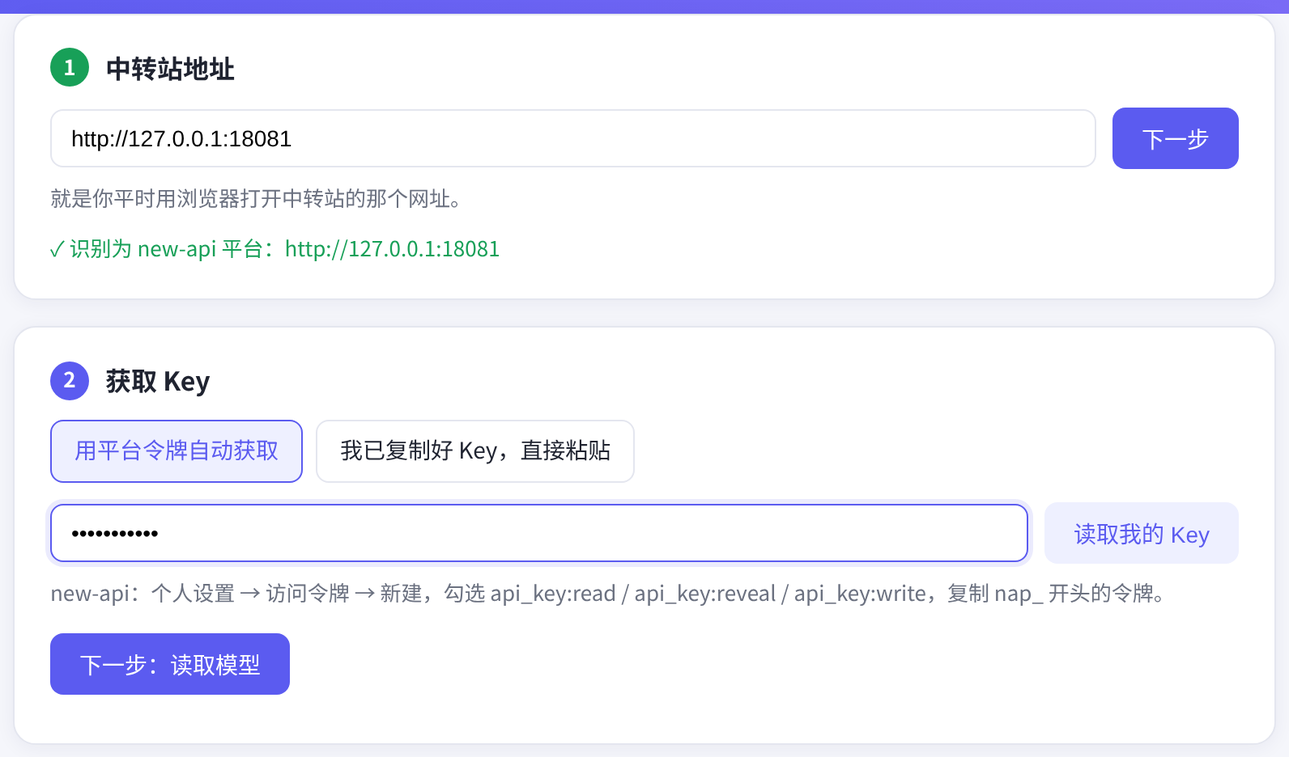
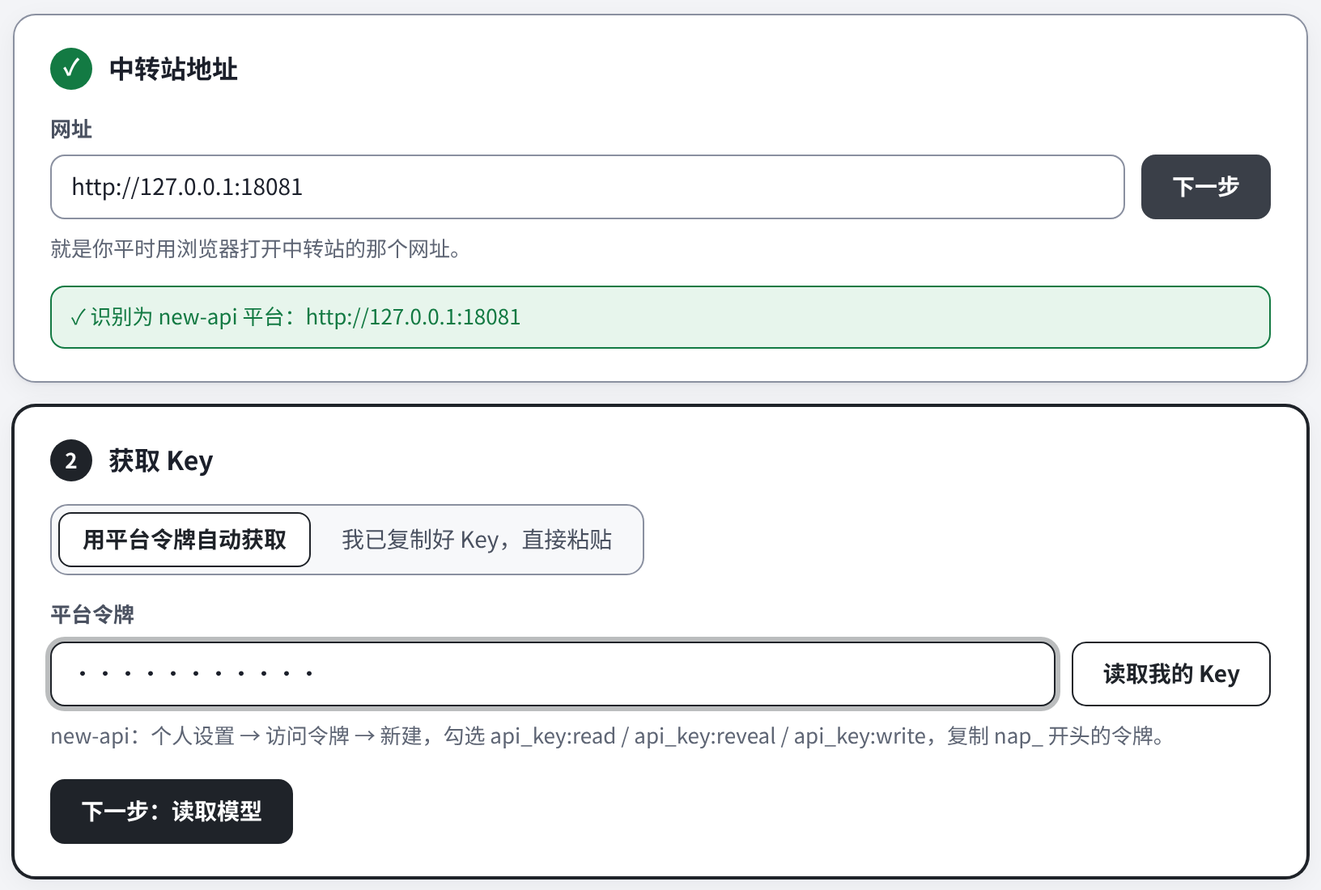
ui: 定稿中性黑灰主色 (#1F2329)，移除备选配色；重新截图

Changed region(s): [[0.0, 0.4338, 1.0, 0.9915], [0.0, 0.0, 1.0, 0.4028]]

diff --git a/workbuddy/lib/wb-page.html b/workbuddy/lib/wb-page.html
@@ -1,64 +1,138 @@
 <!doctype html>
 <html lang="zh-CN"><head><meta charset="utf-8"><meta name="viewport" content="width=device-width,initial-scale=1">
+<meta name="color-scheme" content="light dark">
 <title>WorkBuddy 中转站一键导入</title>
 <style>
-:root{--c:#5b5bf0;--c2:#7c6cf6;--bg:#f5f6fb;--card:#fff;--t:#1f2330;--m:#6b7180;--ok:#18a058;--warn:#d97706;--err:#d03050;--bd:#e4e6ef}
-*{box-sizing:border-box}body{margin:0;font-family:-apple-system,BlinkMacSystemFont,"PingFang SC","Microsoft YaHei","Noto Sans CJK SC",sans-serif;background:var(--bg);color:var(--t);font-size:14px;line-height:1.6}
-header{background:linear-gradient(120deg,var(--c),var(--c2));color:#fff;padding:22px 0 54px}
-.wrap{max-width:820px;margin:0 auto;padding:0 20px}
-header h1{margin:0;font-size:22px;font-weight:600}header p{margin:4px 0 0;opacity:.85}
-.status{float:right;background:rgba(255,255,255,.18);border-radius:20px;padding:4px 12px;font-size:12px;margin-top:4px}
-main{margin-top:-36px}
-.card{background:var(--card);border-radius:14px;box-shadow:0 2px 12px rgba(30,40,90,.06);padding:20px 22px;margin-bottom:16px;border:1px solid var(--bd)}
-.card.off{opacity:.5;pointer-events:none}
-.card h2{margin:0 0 12px;font-size:16px;display:flex;align-items:center;gap:10px}
-.n{width:24px;height:24px;border-radius:12px;background:var(--c);color:#fff;font-size:13px;display:inline-flex;align-items:center;justify-content:center}
-.card.done .n{background:var(--ok)}
+:root{--bg:#F3F4F7;--card:#FFFFFF;--sunk:#F7F8FA;--t:#1B1F2A;--t2:#4A5160;--m:#5E6574;--bd:#8A90A0;--bd-soft:#DDE0E7;
+ --c:#1F2329;--c-h:#3A3F48;--c-soft:#ECEEF2;--c-on:#FFFFFF;--ring:rgba(31,35,41,.3);
+ --ok:#137A43;--ok-bg:#E7F5EC;--warn:#9A5800;--warn-bg:#FDF2E1;--err:#B3203E;--err-bg:#FCEBEE;--shadow:0 1px 2px rgba(20,25,40,.05),0 4px 16px rgba(20,25,40,.05)}
+@media (prefers-color-scheme:dark){:root{--bg:#14161C;--card:#1F222B;--sunk:#191B22;--t:#ECEEF3;--t2:#C3C7D1;--m:#A3A9B6;--bd:#6E7484;--bd-soft:#343844;
+ --c:#E6E8EC;--c-h:#FFFFFF;--c-soft:#2C2F38;--c-on:#14161C;--ring:rgba(230,232,236,.4);
+ --ok:#5BD08F;--ok-bg:#183326;--warn:#F0B055;--warn-bg:#3A2C14;--err:#FF8A9E;--err-bg:#3D1C24;--shadow:0 1px 2px rgba(0,0,0,.4)}}
+
+*{box-sizing:border-box}
+body{margin:0;font-family:-apple-system,BlinkMacSystemFont,"PingFang SC","Hiragino Sans GB","Microsoft YaHei","Noto Sans CJK SC","Segoe UI",sans-serif;background:var(--bg);color:var(--t);font-size:14px;line-height:1.6;-webkit-font-smoothing:antialiased}
+.wrap{max-width:840px;margin:0 auto;padding:0 20px}
+a{color:var(--c)}
+header{padding:28px 0 8px}
+.top{display:flex;align-items:flex-start;justify-content:space-between;gap:8px 16px;flex-wrap:wrap}.top>div{flex:1 1 380px}
+header h1{margin:0;font-size:22px;font-weight:650;letter-spacing:.01em}
+header p{margin:4px 0 0;color:var(--m)}
+.status{flex:none;min-width:168px;justify-content:center;display:inline-flex;align-items:center;gap:6px;border:1px solid var(--bd);background:var(--card);border-radius:999px;padding:3px 12px;font-size:12px;color:var(--t2);white-space:nowrap}
+.status::before{content:"";width:8px;height:8px;border-radius:50%;background:var(--m)}
+.status.ok::before{background:var(--ok)}.status.warn::before{background:var(--warn)}
+/* 步骤条 */
+.steps{display:flex;list-style:none;margin:20px 0 18px;padding:0;gap:6px}
+.steps li{flex:1;display:flex;align-items:center;gap:8px;padding:8px 10px;border-radius:10px;color:var(--m);font-size:13px;border:1px solid transparent}
+.steps .d{flex:none;width:22px;height:22px;border-radius:50%;border:1.5px solid var(--bd);display:inline-flex;align-items:center;justify-content:center;font-size:12px;font-weight:600;background:var(--card)}
+.steps li.cur{background:var(--card);border-color:var(--c);color:var(--t);font-weight:600}
+.steps li.cur .d{background:var(--c);border-color:var(--c);color:var(--c-on)}
+.steps li.done{color:var(--t2)}.steps li.done .d{background:var(--ok);border-color:var(--ok);color:var(--card);font-size:0}
+.steps li.done .d::after{content:"✓";font-size:12px}
+/* 卡片 */
+.card{background:var(--card);border-radius:14px;box-shadow:var(--shadow);padding:20px 22px;margin-bottom:14px;border:1px solid var(--bd)}
+.card.cur{border-color:var(--c);box-shadow:0 0 0 1px var(--c),var(--shadow)}
+.card.off{background:var(--sunk);box-shadow:none;pointer-events:none}
+.card.off>*:not(h2){display:none}
+.card.off h2{margin:0;color:var(--m)}
+.card.off h2::after{content:"完成上一步后可填写";margin-left:auto;font-size:12px;font-weight:400;color:var(--m)}
+.card h2{margin:0 0 14px;font-size:16px;font-weight:650;display:flex;align-items:center;gap:10px}
+.n{flex:none;width:26px;height:26px;border-radius:50%;background:var(--c);color:var(--c-on);font-size:13px;display:inline-flex;align-items:center;justify-content:center}
+.card.off .n{background:transparent;color:var(--m);border:1.5px solid var(--bd)}
+.card.done .n{background:var(--ok);color:var(--card);font-size:0}.card.done .n::after{content:"✓";font-size:14px}
+.card.done:not(.cur){border-color:var(--bd)}
+.lbl{display:block;font-size:13px;font-weight:600;color:var(--t2);margin:0 0 6px}
 .row{display:flex;gap:10px;align-items:center;flex-wrap:wrap}
-input[type=text],input[type=password],select{border:1px solid var(--bd);border-radius:8px;padding:9px 12px;font-size:14px;outline:none;background:#fff}
-input[type=text]:focus,input[type=password]:focus,select:focus{border-color:var(--c);box-shadow:0 0 0 3px rgba(91,91,240,.12)}
+input[type=text],input[type=password],select{height:40px;border:1px solid var(--bd);border-radius:9px;padding:0 12px;font-size:14px;color:var(--t);background:var(--card);font-family:inherit}
+select{height:34px;padding:0 8px;cursor:pointer}
+input::placeholder{color:var(--m)}
+input:focus-visible,select:focus-visible,button:focus-visible,.tab:focus-visible{outline:none;border-color:var(--c);box-shadow:0 0 0 3px var(--ring)}
 input.grow{flex:1;min-width:240px}
-button{border:0;border-radius:8px;padding:9px 18px;font-size:14px;cursor:pointer;background:var(--c);color:#fff}
-button.sec{background:#eef0ff;color:var(--c)}button.ghost{background:none;color:var(--c);padding:4px 8px}
-button:disabled{opacity:.5;cursor:default}
+input[type=checkbox],input[type=radio]{width:16px;height:16px;accent-color:var(--c);margin:0;cursor:pointer}
+button{height:40px;border:1px solid var(--c);border-radius:9px;padding:0 18px;font-size:14px;font-weight:600;cursor:pointer;background:var(--c);color:var(--c-on);font-family:inherit;display:inline-flex;align-items:center;justify-content:center}
+button:hover:not(:disabled){background:var(--c-h);border-color:var(--c-h)}
+button.sec{background:var(--card);color:var(--c);border-color:var(--c)}
+button.sec:hover:not(:disabled){background:var(--c-soft);border-color:var(--c)}
+button.ghost{height:30px;background:none;border-color:transparent;color:var(--c);padding:0 8px;font-weight:500}
+button.ghost:hover:not(:disabled){background:var(--c-soft);border-color:transparent}
+button:disabled{opacity:.6;cursor:progress}
 .hint{color:var(--m);font-size:13px;margin:8px 0 0}
-.msg{margin-top:10px;font-size:13px}.msg.ok{color:var(--ok)}.msg.warn{color:var(--warn)}.msg.err{color:var(--err)}
-.tabs{display:flex;gap:8px;margin-bottom:12px}
-.tab{padding:7px 14px;border-radius:8px;border:1px solid var(--bd);cursor:pointer;background:#fff;color:var(--t)}
-.tab.on{border-color:var(--c);background:#eef0ff;color:var(--c)}
-.keys label{display:flex;gap:10px;align-items:center;padding:8px 10px;border:1px solid var(--bd);border-radius:8px;margin-top:6px;cursor:pointer}
-.keys label:hover{border-color:var(--c)}.keys .mk{color:var(--m);font-family:ui-monospace,Menlo,Consolas,monospace;font-size:12px}
-table{width:100%;border-collapse:collapse;margin-top:8px}th,td{text-align:left;padding:8px 6px;border-bottom:1px solid var(--bd)}th{color:var(--m);font-weight:500;font-size:13px}
-td.id{font-family:ui-monospace,Menlo,Consolas,monospace;font-size:13px}
-.tag{display:inline-block;border-radius:10px;padding:0 8px;font-size:12px}.tag.ok{background:#e8f7ef;color:var(--ok)}.tag.warn{background:#fff4e5;color:var(--warn)}.tag.err{background:#fdecef;color:var(--err)}
-.spin{display:inline-block;width:14px;height:14px;border:2px solid #fff;border-right-color:transparent;border-radius:50%;animation:s .8s linear infinite;vertical-align:-2px;margin-right:6px}
+.msg{margin-top:12px;font-size:13px;border-radius:9px}
+.msg:empty{display:none}
+.msg.ok,.msg.warn,.msg.err{padding:8px 12px;border:1px solid currentColor}
+.msg.ok{color:var(--ok);background:var(--ok-bg)}.msg.warn{color:var(--warn);background:var(--warn-bg)}.msg.err{color:var(--err);background:var(--err-bg)}
+.msg.err::before{content:"⚠ ";font-weight:700}
+/* 分段切换 */
+.tabs{display:inline-flex;gap:4px;padding:4px;margin-bottom:14px;border:1px solid var(--bd);border-radius:11px;background:var(--sunk);flex-wrap:wrap}
+.tab{height:auto;padding:6px 14px;border-radius:8px;border:1px solid transparent;cursor:pointer;background:none;color:var(--t2);font-weight:500}
+.tab:hover:not(.on){background:var(--card);border-color:transparent;color:var(--t)}
+.tab.on,.tab.on:hover{background:var(--card);border-color:var(--c);color:var(--c);font-weight:600}
+/* Key 列表 */
+.keys{margin-top:4px}
+.keys:empty{display:none}
+.keys label{display:flex;gap:12px;align-items:center;padding:10px 12px;border:1px solid var(--bd);border-radius:10px;margin-top:8px;cursor:pointer;background:var(--card)}
+.keys label:hover{border-color:var(--c)}
+.keys label:has(input:checked){border-color:var(--c);background:var(--c-soft);box-shadow:0 0 0 1px var(--c)}
+.keys b{font-weight:600}.keys .mk{margin-left:auto;color:var(--m);font-family:ui-monospace,Menlo,Consolas,monospace;font-size:12px}
+.keys .new b{color:var(--c)}
+.empty{padding:14px;border:1px dashed var(--bd);border-radius:10px;color:var(--m);text-align:center;font-size:13px;margin-top:8px}
+/* 骨架加载 */
+.sk{height:42px;border-radius:10px;margin-top:8px;background:linear-gradient(90deg,var(--sunk),var(--bd-soft),var(--sunk));background-size:200% 100%;animation:sh 1.2s ease-in-out infinite}
+@keyframes sh{to{background-position:-200% 0}}
+/* 表格 */
+.tools{padding:8px 10px;border:1px solid var(--bd);border-bottom:0;border-radius:10px 10px 0 0;background:var(--sunk)}
+.cnt{font-size:13px;color:var(--t2);margin-left:4px}
+.tbl{border:1px solid var(--bd);border-radius:0 0 10px 10px;overflow:hidden}
+.tbl.solo{border-radius:10px}
+table{width:100%;border-collapse:collapse}
+th,td{text-align:left;padding:8px 12px;border-bottom:1px solid var(--bd-soft);vertical-align:middle}
+tbody tr:last-child td{border-bottom:0}
+th{color:var(--t2);font-weight:600;font-size:12px;background:var(--sunk);border-bottom:1px solid var(--bd)}
+#mt tr:hover td{background:var(--sunk)}
+#mt tr:has(input:checked) td{background:var(--c-soft)}
+td.id{font-family:ui-monospace,Menlo,Consolas,monospace;font-size:13px;overflow-wrap:anywhere;min-width:150px}
+#res th,#res td:nth-child(2),#res td:nth-child(3){white-space:nowrap}
+button.fin,button.fin:disabled{opacity:1;cursor:default;background:var(--ok-bg);color:var(--ok);border-color:var(--ok)}
+td.note{color:var(--m);font-size:13px}
+.tag{display:inline-block;border-radius:999px;padding:1px 10px;font-size:12px;font-weight:600;border:1px solid currentColor;white-space:nowrap}
+.tag.ok{background:var(--ok-bg);color:var(--ok)}.tag.warn{background:var(--warn-bg);color:var(--warn)}.tag.err{background:var(--err-bg);color:var(--err)}
+.spin{display:inline-block;width:14px;height:14px;border:2px solid currentColor;border-right-color:transparent;border-radius:50%;animation:s .8s linear infinite;margin-right:8px}
 @keyframes s{to{transform:rotate(360deg)}}
-.big{font-size:16px;padding:11px 26px}
-.final{text-align:center;padding:10px 0 4px}.final .ok{font-size:18px;color:var(--ok);font-weight:600}
-footer{color:var(--m);font-size:12px;text-align:center;padding:10px 0 30px}
+.big{height:46px;font-size:15px;padding:0 28px}
+.prog{margin-top:14px;padding:12px 14px;border-radius:10px;background:var(--sunk);border:1px solid var(--bd);color:var(--t2);font-size:13px}
+#res .tbl{margin-top:14px}
+.final{margin-top:16px;padding:18px;border-radius:12px;border:1px solid var(--ok);background:var(--ok-bg);text-align:center}
+.final .ok{margin:0;font-size:18px;color:var(--ok);font-weight:700}
+.final .hint{color:var(--t2);margin:6px 0 14px}
+footer{color:var(--m);font-size:12px;text-align:center;padding:12px 0 32px}
+.bye{padding:80px 20px;text-align:center}
+@media (max-width:640px){.steps li span.tx{display:none}.steps li{justify-content:center}.mk{display:none}}
+@media (prefers-reduced-motion:reduce){*{animation:none!important;transition:none!important}}
 </style></head><body>
-<header><div class="wrap"><span class="status" id="st">检测中…</span><h1>WorkBuddy 中转站一键导入</h1><p>把 new-api / sub2api 中转站的模型导入 WorkBuddy，每个模型可选思考强度</p></div></header>
+<header><div class="wrap"><div class="top"><div><h1>WorkBuddy 中转站一键导入</h1><p>把 new-api / sub2api 中转站的模型导入 WorkBuddy，每个模型可单独选思考强度</p></div><span class="status" id="st" role="status">检测中…</span></div>
+<ol class="steps" id="steps" aria-label="进度"><li class="cur"><span class="d">1</span><span class="tx">填地址</span></li><li><span class="d">2</span><span class="tx">获取 Key</span></li><li><span class="d">3</span><span class="tx">选模型</span></li><li><span class="d">4</span><span class="tx">导入</span></li></ol></div></header>
 <main class="wrap">
-<section class="card" id="c1"><h2><span class="n">1</span>中转站地址</h2>
+<section class="card cur" id="c1"><h2><span class="n">1</span>中转站地址</h2>
+  <label class="lbl" for="site">网址</label>
   <div class="row"><input class="grow" type="text" id="site" placeholder="例如 https://api.example.com" autocomplete="off"><button id="b1">下一步</button></div>
-  <p class="hint">就是你平时用浏览器打开中转站的那个网址。</p><div class="msg" id="m1"></div></section>
+  <p class="hint">就是你平时用浏览器打开中转站的那个网址。</p><div class="msg" id="m1" role="status"></div></section>
 
 <section class="card off" id="c2"><h2><span class="n">2</span>获取 Key</h2>
-  <div class="tabs"><span class="tab on" data-t="pat" id="tPat">用平台令牌自动获取</span><span class="tab" data-t="paste" id="tPaste">我已复制好 Key，直接粘贴</span></div>
-  <div id="pPat"><div class="row"><input class="grow" type="password" id="pat" placeholder="平台令牌" autocomplete="off"><button class="sec" id="bKeys">读取我的 Key</button></div>
+  <div class="tabs" role="tablist"><button type="button" class="tab on" data-t="pat" id="tPat" role="tab" aria-selected="true">用平台令牌自动获取</button><button type="button" class="tab" data-t="paste" id="tPaste" role="tab" aria-selected="false">我已复制好 Key，直接粘贴</button></div>
+  <div id="pPat"><label class="lbl" for="pat">平台令牌</label><div class="row"><input class="grow" type="password" id="pat" placeholder="粘贴平台令牌（不会保存到磁盘）" autocomplete="off"><button class="sec" id="bKeys">读取我的 Key</button></div>
     <p class="hint" id="patHint"></p><div class="keys" id="keys"></div></div>
-  <div id="pPaste" hidden><div class="row"><input class="grow" type="password" id="key" placeholder="sk-…" autocomplete="off"></div>
+  <div id="pPaste" hidden><label class="lbl" for="key">Key</label><div class="row"><input class="grow" type="password" id="key" placeholder="sk-…" autocomplete="off"></div>
     <p class="hint">在中转站网页的「令牌 / API 密钥」页点复制，粘贴到这里。</p></div>
-  <div class="row" style="margin-top:14px"><button id="b2">下一步：读取模型</button></div><div class="msg" id="m2"></div></section>
+  <div class="row" style="margin-top:16px"><button id="b2">下一步：读取模型</button></div><div class="msg" id="m2" role="status"></div></section>
 
 <section class="card off" id="c3"><h2><span class="n">3</span>选择模型和思考强度</h2>
-  <div class="row"><button class="ghost" id="all">全选</button><button class="ghost" id="none">全不选</button>
-    <span style="flex:1"></span><span class="hint" style="margin:0">把勾选的都设为</span><select id="bulk"><option value="">—</option></select></div>
-  <table><thead><tr><th style="width:36px"></th><th>模型</th><th style="width:130px">思考强度</th></tr></thead><tbody id="mt"></tbody></table>
+  <div class="row tools"><button class="ghost" id="all">全选</button><button class="ghost" id="none">全不选</button><span class="cnt" id="cnt"></span>
+    <span style="flex:1"></span><label class="hint" for="bulk" style="margin:0">把勾选的都设为</label><select id="bulk"><option value="">—</option></select></div>
+  <div class="tbl"><table><thead><tr><th style="width:44px"><span hidden>勾选</span></th><th>模型</th><th style="width:140px">思考强度</th></tr></thead><tbody id="mt"></tbody></table></div>
   <p class="hint">导入前会逐个试一下：模型不可用就不导入；选了思考强度但中转站不支持的，会自动改成「关闭」并在结果里说明。导入后在 WorkBuddy 里也能随时切换思考强度。</p></section>
 
 <section class="card off" id="c4"><h2><span class="n">4</span>导入</h2>
-  <div class="row"><button class="big" id="b4">导入到 WorkBuddy</button><span class="hint" id="m4" style="margin:0"></span></div>
+  <div class="row"><button class="big" id="b4">导入到 WorkBuddy</button><span class="hint" id="m4" style="margin:0" role="status"></span></div>
   <div id="res"></div></section>
 <footer>v__WB_VERSION__ · 本页面只在你的电脑上运行（127.0.0.1），令牌和 Key 不会保存到磁盘 · <a href="https://github.com/xtianowner/workbuddy-relay" target="_blank" rel="noopener">开源项目</a></footer>
 </main>
@@ -68,38 +142,40 @@ const LBL={off:'关闭',low:'低',medium:'中',high:'高'};
 async function api(p,b){const r=await fetch(p,{method:b?'POST':'GET',headers:{'X-WB-Token':T,'Content-Type':'application/json'},body:b?JSON.stringify(b):undefined});const j=await r.json().catch(()=>({error:'本地服务已关闭'}));if(!r.ok)throw new Error(j.error||('HTTP '+r.status));return j}
 function msg(id,t,c){const e=$(id);e.className='msg '+(c||'');e.textContent=t||''}
 function busy(btn,on,txt){if(on){btn.dataset.t=btn.textContent;btn.innerHTML='<span class="spin"></span>'+(txt||'处理中…');btn.disabled=true}else{btn.textContent=btn.dataset.t||btn.textContent;btn.disabled=false}}
-function open(n){for(let i=1;i<=4;i++){$('c'+i).classList.toggle('off',i>n);$('c'+i).classList.toggle('done',i<n)}}
-api('/api/status').then(s=>{EFF=s.efforts;$('st').textContent=s.app.installed?('WorkBuddy 已安装'+(s.app.running?' · 运行中':'')):'未检测到 WorkBuddy';EFF.forEach(e=>$('bulk').insertAdjacentHTML('beforeend','<option value="'+e.v+'">'+e.label+'</option>'))}).catch(e=>$('st').textContent=e.message);
+function open(n){for(let i=1;i<=4;i++){const c=$('c'+i);c.classList.toggle('off',i>n);c.classList.toggle('done',i<n);c.classList.toggle('cur',i===Math.min(n,4)&&n<5)}
+  $('steps').querySelectorAll('li').forEach((li,i)=>{li.classList.toggle('done',i+1<n);li.classList.toggle('cur',i+1===n);li.toggleAttribute('aria-current',i+1===n)})}
+function cnt(){const k=models.filter(m=>m.checked).length;$('cnt').textContent='已选 '+k+' / '+models.length}
+api('/api/status').then(s=>{EFF=s.efforts;$('st').textContent=s.app.installed?('WorkBuddy 已安装'+(s.app.running?' · 运行中':'')):'未检测到 WorkBuddy';$('st').className='status '+(s.app.installed?'ok':'warn');EFF.forEach(e=>$('bulk').insertAdjacentHTML('beforeend','<option value="'+e.v+'">'+e.label+'</option>'))}).catch(e=>{$('st').textContent=e.message;$('st').className='status warn'});
 $('b1').onclick=async()=>{const b=$('b1');busy(b,1,'识别中…');msg('m1');try{const r=await api('/api/site',{site:$('site').value.trim()});
   const n={newapi:'new-api',sub2api:'sub2api'}[r.type];msg('m1',(n?'✓ 识别为 '+n+' 平台：':'未能识别平台类型，可以直接粘贴 Key：')+r.origin+(r.insecure?'（注意：http 明文传输）':''),n?'ok':'warn');
   $('patHint').textContent=r.type==='sub2api'?'sub2api 获取令牌较麻烦，推荐切到「直接粘贴 Key」。':'new-api：个人设置 → 访问令牌 → 新建，勾选 api_key:read / api_key:reveal / api_key:write，复制 nap_ 开头的令牌。';
   if(r.type==='sub2api'||r.type==='unknown')setTab('paste');open(2);$('keys').innerHTML='';keyChoice=null}catch(e){msg('m1',e.message,'err')}busy(b,0)};
 $('site').onkeydown=e=>{if(e.key==='Enter')$('b1').click()};
-function setTab(t){mode=t;$('tPat').classList.toggle('on',t==='pat');$('tPaste').classList.toggle('on',t==='paste');$('pPat').hidden=t!=='pat';$('pPaste').hidden=t!=='paste';msg('m2')}
+function setTab(t){mode=t;$('tPat').classList.toggle('on',t==='pat');$('tPaste').classList.toggle('on',t==='paste');$('tPat').setAttribute('aria-selected',t==='pat');$('tPaste').setAttribute('aria-selected',t==='paste');$('pPat').hidden=t!=='pat';$('pPaste').hidden=t!=='paste';msg('m2')}
 $('tPat').onclick=()=>setTab('pat');$('tPaste').onclick=()=>setTab('paste');
-$('bKeys').onclick=async()=>{const b=$('bKeys');busy(b,1,'读取中…');msg('m2');try{const r=await api('/api/keys',{token:$('pat').value.trim()});
-  const h=r.keys.map((k,i)=>'<label><input type="radio" name="k" value="'+i+'"'+(i===0?' checked':'')+'><b></b><span class="mk"></span></label>').join('')+'<label><input type="radio" name="k" value="new"'+(r.keys.length?'':' checked')+'><b>新建一个 WorkBuddy 专用 Key</b></label>';
+$('bKeys').onclick=async()=>{const b=$('bKeys');busy(b,1,'读取中…');msg('m2');$('keys').innerHTML='<div class="sk"></div><div class="sk"></div>';try{const r=await api('/api/keys',{token:$('pat').value.trim()});
+  const h=r.keys.map((k,i)=>'<label><input type="radio" name="k" value="'+i+'"'+(i===0?' checked':'')+'><b></b><span class="mk"></span></label>').join('')+(r.keys.length?'':'<div class="empty">这个账号下还没有可用的 Key，可以新建一个</div>')+'<label class="new"><input type="radio" name="k" value="new"'+(r.keys.length?'':' checked')+'><b>新建一个 WorkBuddy 专用 Key</b></label>';
   $('keys').innerHTML=h;const ls=$('keys').querySelectorAll('label');r.keys.forEach((k,i)=>{ls[i].querySelector('b').textContent=k.name;ls[i].querySelector('.mk').textContent=k.masked});
-  window._keys=r.keys;msg('m2','✓ 读取到 '+r.keys.length+' 个可用 Key，请选择一个','ok')}catch(e){msg('m2','读取失败：'+e.message+'。也可以切到「直接粘贴 Key」','err')}busy(b,0)};
+  window._keys=r.keys;msg('m2','✓ 读取到 '+r.keys.length+' 个可用 Key，请选择一个','ok')}catch(e){msg('m2','读取失败：'+e.message+'。也可以切到「直接粘贴 Key」','err');$('keys').innerHTML=''}busy(b,0)};
 $('b2').onclick=async()=>{const b=$('b2');let body;
   if(mode==='paste'){const k=$('key').value.trim();if(!k)return msg('m2','请粘贴 Key','err');body={key:k}}
   else{const c=document.querySelector('input[name=k]:checked');if(!c)return msg('m2','请先读取并选择一个 Key','err');body={keyId:c.value==='new'?'new':window._keys[+c.value].id}}
-  busy(b,1,'读取模型中…');msg('m2');try{const r=await api('/api/use-key',body);msg('m2','✓ 使用 Key「'+r.keyName+'」'+r.masked+'，找到 '+r.models.length+' 个模型','ok');models=r.models;renderModels();open(3);$('c4').classList.remove('off')}catch(e){msg('m2',e.message,'err')}busy(b,0)};
-function renderModels(){const tb=$('mt');tb.innerHTML='';models.forEach((m,i)=>{const tr=document.createElement('tr');
+  busy(b,1,'读取模型中…');msg('m2','正在向中转站读取模型列表…');try{const r=await api('/api/use-key',body);msg('m2','✓ 使用 Key「'+r.keyName+'」'+r.masked+'，找到 '+r.models.length+' 个模型','ok');models=r.models;renderModels();open(3);$('c4').classList.remove('off');$('c3').scrollIntoView({block:'start',behavior:'smooth'})}catch(e){msg('m2',e.message,'err')}busy(b,0)};
+function renderModels(){const tb=$('mt');tb.innerHTML='';cnt();if(!models.length){tb.innerHTML='<tr><td colspan="3"><div class="empty">这个 Key 下没有读到模型。请到中转站确认这个 Key 有可用的模型分组，再回到第 2 步重试。</div></td></tr>';return}models.forEach((m,i)=>{const tr=document.createElement('tr');
   tr.innerHTML='<td><input type="checkbox"'+(m.checked?' checked':'')+'></td><td class="id"></td><td><select></select></td>';tr.children[1].textContent=m.id;
   const sel=tr.querySelector('select');EFF.forEach(e=>{const o=document.createElement('option');o.value=e.v;o.textContent=e.label;if(e.v===m.suggest)o.selected=true;sel.appendChild(o)});
-  tr.querySelector('input').onchange=e=>m.checked=e.target.checked;sel.onchange=e=>m.suggest=e.target.value;tb.appendChild(tr)})}
+  const cb=tr.querySelector('input');cb.setAttribute('aria-label','导入 '+m.id);sel.setAttribute('aria-label',m.id+' 的思考强度');cb.onchange=e=>{m.checked=e.target.checked;cnt()};sel.onchange=e=>m.suggest=e.target.value;tb.appendChild(tr)})}
 $('all').onclick=()=>{models.forEach(m=>m.checked=true);renderModels()};$('none').onclick=()=>{models.forEach(m=>m.checked=false);renderModels()};
 $('bulk').onchange=e=>{if(!e.target.value)return;models.forEach(m=>{if(m.checked)m.suggest=e.target.value});renderModels();e.target.value=''};
 $('b4').onclick=async()=>{const pick=models.filter(m=>m.checked).map(m=>({id:m.id,effort:m.suggest}));if(!pick.length){$('m4').textContent='请至少勾选一个模型';return}
-  const b=$('b4');busy(b,1,'正在检测并导入（'+pick.length+' 个模型）…');$('m4').textContent='';$('res').innerHTML='';
+  const b=$('b4');busy(b,1,'正在检测并导入（'+pick.length+' 个模型）…');$('m4').textContent='';$('res').innerHTML='<div class="prog">正在逐个检测模型能否使用、思考强度是否生效，模型多时需要几十秒，请不要关闭页面…</div>';
   try{const r=await api('/api/import',{models:pick});renderResult(r)}catch(e){$('res').innerHTML='<p class="msg err"></p>';$('res').firstChild.textContent='导入失败：'+e.message;busy(b,0)}};
 function renderResult(r){const rows=r.rows.map(x=>{const st=!x.usable?'<span class="tag err">未导入</span>':(x.effortWanted!=='off'&&x.effort==='off')?'<span class="tag warn">已导入·已降级</span>':'<span class="tag ok">已导入</span>';
-  return '<tr><td class="id">'+esc(x.id)+'</td><td>'+st+'</td><td>'+(x.usable?LBL[x.effort]:'—')+'</td><td class="hint" style="margin:0">'+esc(x.note||'')+'</td></tr>'}).join('');
-  let h='<table><thead><tr><th>模型</th><th>结果</th><th>思考强度</th><th>说明</th></tr></thead><tbody>'+rows+'</tbody></table>';
-  if(r.ok){h+='<div class="final"><p class="ok">✓ 完成：已导入 '+r.written.length+' 个模型</p><p class="hint">回到 WorkBuddy，在输入框上方的模型选择器里往下翻到「自定义 / Custom」分组即可使用，无需重启。'+(r.merged===true?'（已确认 WorkBuddy 接收）':r.merged===false?'（WorkBuddy 可能还在启动，稍等几秒再看）':'（WorkBuddy 下次启动时生效）')+'</p><button class="sec" id="bq">完成，关闭本工具</button></div>';$('b4').innerHTML='已导入';open(5)}
+  return '<tr><td class="id">'+esc(x.id)+'</td><td>'+st+'</td><td>'+(x.usable?LBL[x.effort]:'—')+'</td><td class="note">'+esc(x.note||'')+'</td></tr>'}).join('');
+  let h='<div class="tbl solo"><table><thead><tr><th>模型</th><th>结果</th><th>思考强度</th><th>说明</th></tr></thead><tbody>'+rows+'</tbody></table></div>';
+  if(r.ok){h+='<div class="final"><p class="ok">✓ 完成：已导入 '+r.written.length+' 个模型</p><p class="hint">回到 WorkBuddy，在输入框上方的模型选择器里往下翻到「自定义 / Custom」分组即可使用，无需重启。'+(r.merged===true?'（已确认 WorkBuddy 接收）':r.merged===false?'（WorkBuddy 可能还在启动，稍等几秒再看）':'（WorkBuddy 下次启动时生效）')+'</p><button class="sec" id="bq">完成，关闭本工具</button></div>';$('b4').textContent='✓ 已导入';$('b4').classList.add('fin');open(5)}
   else{h+='<p class="msg err"></p>';busy($('b4'),0)}
   $('res').innerHTML=h;if(!r.ok)$('res').querySelector('.msg.err').textContent=r.fatal||'导入失败';
-  const q=$('bq');if(q)q.onclick=async()=>{await api('/api/quit',{}).catch(()=>{});document.body.innerHTML='<div class="wrap" style="padding:80px 20px;text-align:center"><h2>已关闭，可以关掉这个页面了</h2></div>'}}
+  const q=$('bq');if(q)q.onclick=async()=>{await api('/api/quit',{}).catch(()=>{});document.body.innerHTML='<div class="wrap bye"><h2>已关闭，可以关掉这个页面了</h2></div>'}}
 function esc(s){return String(s).replace(/[&<>"']/g,c=>({'&':'&amp;','<':'&lt;','>':'&gt;','"':'&quot;',"'":'&#39;'}[c]))}
 </script></body></html>
